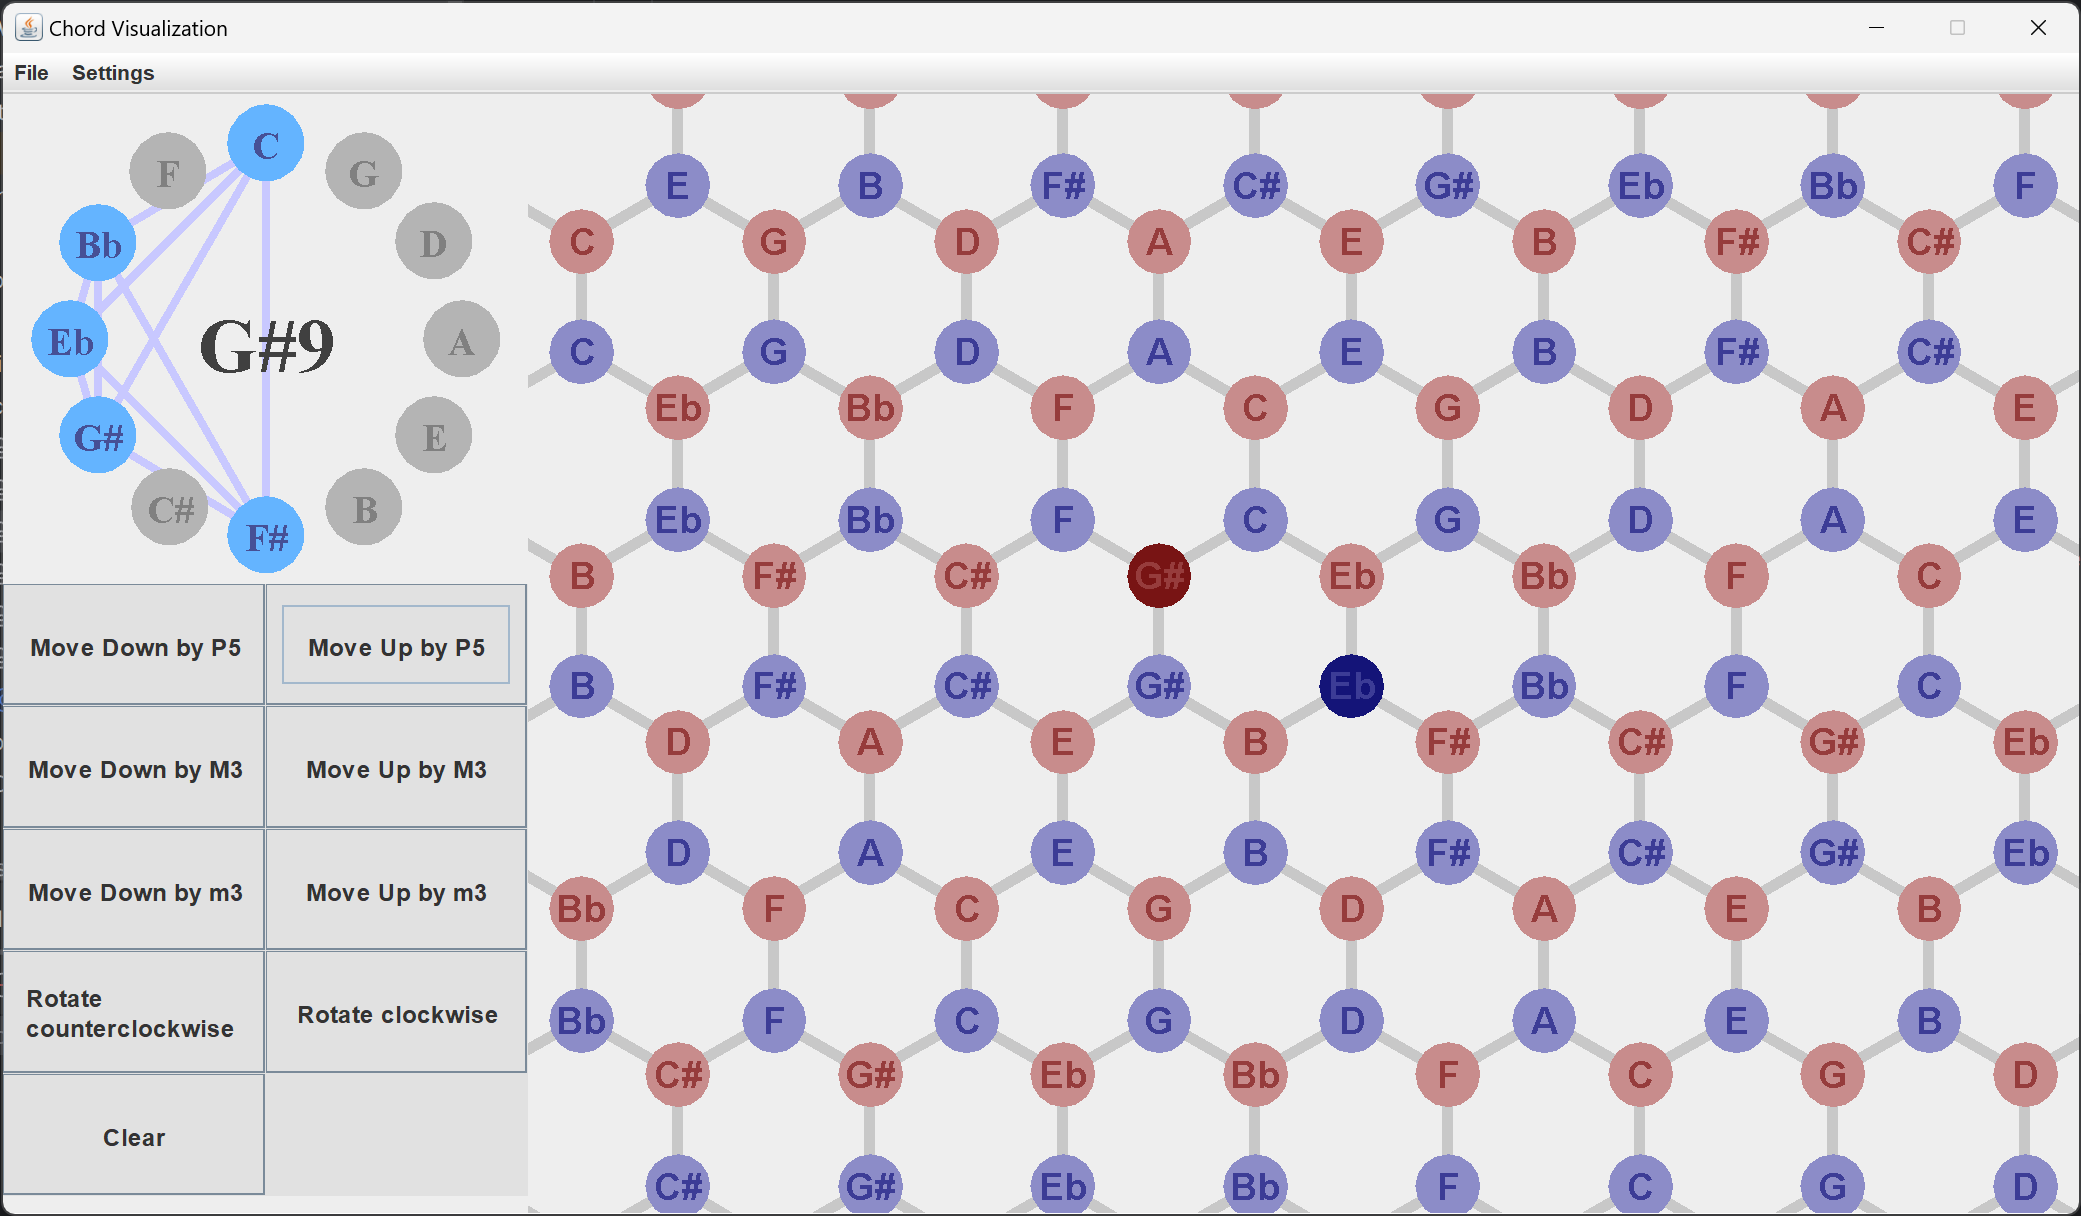
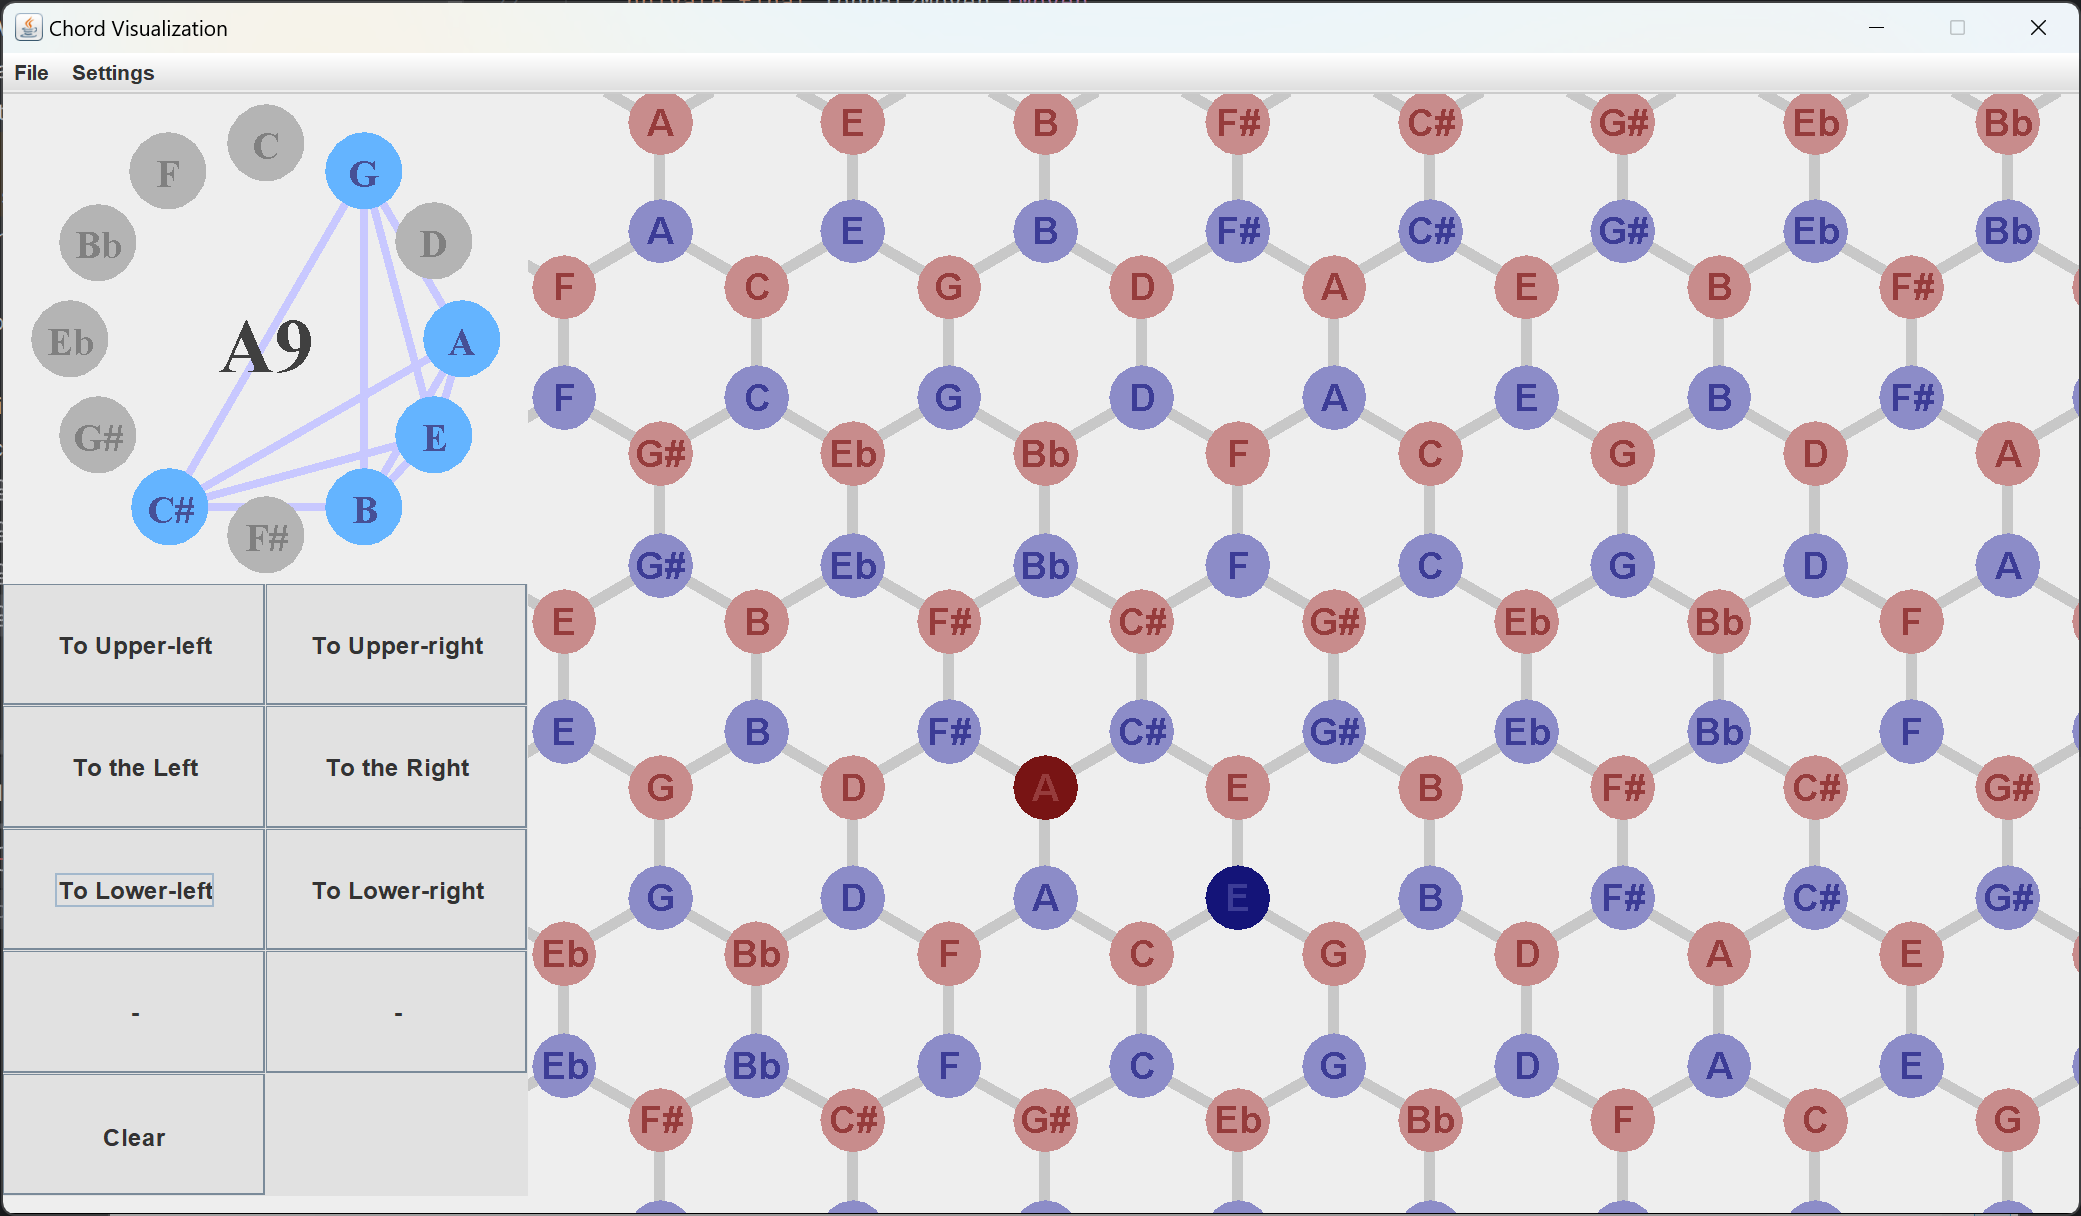
Rewrite operations for Dual-Tonnetz
- Chords now move along edges on the Dual-Tonnetz

diff --git a/src/cdvis/menu/SwitchNetFrame.java b/src/cdvis/menu/SwitchNetFrame.java
@@ -1,6 +1,7 @@
 package cdvis.menu;
 
 import cdvis.app.AppPanel;
+import cdvis.app.ControlPanel;
 import cdvis.component.ChordLabel;
 import cdvis.component.DualTonnetz;
 import cdvis.component.MusicalNet;
@@ -16,15 +17,19 @@ import java.awt.*;
 
 public class SwitchNetFrame extends JFrame {
     private final AppPanel aPanel;
+    private final ControlPanel cPanel;
     private final ControlListener cListener;
     private final TonnetzMover tMover;
     private final TonnetzController tController;
     private final NotePlayer player;
     private final ChordLabel cLabel;
+
     JComboBox<String> comboBox;
 
-    public SwitchNetFrame(AppPanel a, ControlListener cl , TonnetzMover t, TonnetzController tc, NotePlayer p, ChordLabel clb) {
+    public SwitchNetFrame(AppPanel a, ControlPanel c, ControlListener cl,
+                          TonnetzMover t, TonnetzController tc, NotePlayer p, ChordLabel clb) {
         aPanel = a;
+        cPanel = c;
         cListener = cl;
         tMover = t;
         tController = tc;
@@ -42,7 +47,6 @@ public class SwitchNetFrame extends JFrame {
 
         String[] options = {"Tonnetz", "Dual-Tonnetz"};
         comboBox = new JComboBox<>(options);
-
         add(comboBox);
         addButtons();
         setVisible(true);
@@ -54,7 +58,8 @@ public class SwitchNetFrame extends JFrame {
         confirmButton.setContentAreaFilled(false);
         confirmButton.addActionListener(e -> {
             MusicalNet net;
-            switch (comboBox.getSelectedIndex()) {
+            int currentNet = comboBox.getSelectedIndex();
+            switch (currentNet) {
                 case 0:
                     net = new Tonnetz();
                     break;
@@ -64,6 +69,7 @@ public class SwitchNetFrame extends JFrame {
                 default: return;
             }
             aPanel.changeMusicalNet(net);
+            cPanel.changeMusicalNet(currentNet);
             cListener.changeMusicalNet(net);
             tMover.changeMusicalNet(net);
             tController.changeMusicalNet(net);
@@ -71,6 +77,7 @@ public class SwitchNetFrame extends JFrame {
             cLabel.changeMusicalNet(net);
 
             aPanel.repaint();
+            cLabel.repaint();
             player.setNotes();
 
             this.dispose();

diff --git a/src/cdvis/app/ControlPanel.java b/src/cdvis/app/ControlPanel.java
@@ -18,11 +18,11 @@ public class ControlPanel extends JPanel{
 		this.setLayout(new GridLayout(5,2));
 		
 		buttons = new JButton[9];
-		buttons[0] = addButton("Move Down by P5", "-7");
-		buttons[1] = addButton("Move Up by P5", "7");
-		buttons[2] = addButton("Move Down by M3", "-4");
-		buttons[3] = addButton("Move Up by M3", "4");
-		buttons[4] = addButton("Move Down by m3", "-3");
+		buttons[0] = addButton("Move Down by m3", "-3");
+		buttons[1] = addButton("Move Up by M3", "4");
+		buttons[2] = addButton("Move Down by P5", "-7");
+		buttons[3] = addButton("Move Up by P5", "7");
+		buttons[4] = addButton("Move Down by M3", "-4");
 		buttons[5] = addButton("Move Up by m3", "3");
 		buttons[6] = addButton("Rotate counterclockwise", "1");
 		buttons[7] = addButton("Rotate clockwise", "-1");
@@ -37,6 +37,31 @@ public class ControlPanel extends JPanel{
 		b.setContentAreaFilled(false);
 		this.add(b);
 		return b;
+	}
+
+	private void changeButtonDescription(String[] description) {
+		for (int i = 0; i <= 7; i++) {
+			buttons[i].setText(description[i]);
+		}
+	}
+
+	public void changeMusicalNet(int netIndex) {
+		switch (netIndex) {
+			case 0:
+				String[] descrip0 = {
+						"Move Down by P5", "Move Up by P5", "Move Down by M3", "Move Up by M3",
+						"Move Down by m3", "Move Up by m3", "Rotate counterclockwise", "Rotate clockwise"
+				};
+				changeButtonDescription(descrip0);
+				return;
+			case 1:
+				String[] descrip1 = {
+						"To Upper-left" , "To Upper-right", "To the Left", "To the Right",
+						"To Lower-left", "To Lower-right", "-", "-"
+				};
+				changeButtonDescription(descrip1);
+		}
+
 	}
 	
 	public JButton[] getButtons() {

diff --git a/src/cdvis/menu/SettingsMenu.java b/src/cdvis/menu/SettingsMenu.java
@@ -1,6 +1,7 @@
 package cdvis.menu;
 
 import cdvis.app.AppPanel;
+import cdvis.app.ControlPanel;
 import cdvis.component.ChordLabel;
 import cdvis.listener.ControlListener;
 import cdvis.listener.TonnetzController;
@@ -11,15 +12,18 @@ import javax.swing.*;
 
 public class SettingsMenu extends JMenu {
     private final AppPanel aPanel;
+    private final ControlPanel cPanel;
     private final ControlListener cListener;
     private final TonnetzMover tMover;
     private final TonnetzController tController;
     private final NotePlayer player;
     private final ChordLabel cLabel;
 
-    public SettingsMenu(AppPanel a, ControlListener cl, TonnetzMover t, TonnetzController tc, NotePlayer p, ChordLabel clb) {
+    public SettingsMenu(AppPanel a, ControlPanel c, ControlListener cl,
+                        TonnetzMover t, TonnetzController tc, NotePlayer p, ChordLabel clb) {
         super("Settings");
         aPanel = a;
+        cPanel = c;
         cListener = cl;
         tMover = t;
         tController = tc;
@@ -31,7 +35,7 @@ public class SettingsMenu extends JMenu {
         add(instrumentMenuItem);
 
         JMenuItem netMenuItem = new JMenuItem("Change net");
-        netMenuItem.addActionListener(e -> new SwitchNetFrame(aPanel,cListener,tMover,tController,player,cLabel));
+        netMenuItem.addActionListener(e -> new SwitchNetFrame(aPanel,cPanel,cListener,tMover,tController,player,cLabel));
         add(netMenuItem);
     }
 

diff --git a/src/cdvis/component/DualTonnetz.java b/src/cdvis/component/DualTonnetz.java
@@ -158,11 +158,33 @@ public class DualTonnetz extends Graph implements MusicalNet{
 		return false;
     }
 
-    public void moveNotes(int halfSteps) {
+    public void moveNotes(int command) {
     	LinkedList<Integer> newKey = new LinkedList<>();
-    	for (int i : pressedChord) {
-    		newKey.add((i%chordRange + chordRange + halfSteps)%chordRange + chordRange * (i/chordRange));
-    	}
+		int sign = (command > 1) ? 1:-1;
+		switch (Math.abs(command)) {
+			case 3:
+				for (int i : pressedChord) {
+					if (sign*i < sign*chordRange) newKey.add(i+chordRange*sign);
+					else newKey.add(i+command-chordRange*sign);
+				}
+				break;
+			case 4:
+				for (int i : pressedChord) {
+					if (sign*i < sign*chordRange) newKey.add(i+command+chordRange*sign);
+					else newKey.add(i-chordRange*sign);
+				}
+				break;
+			case 7:
+				for (int i : pressedChord) {
+					if (i < chordRange && sign > 0) newKey.add(i+4+chordRange);
+					if (i < chordRange && sign < 0) newKey.add(i-3+chordRange);
+					if (i > chordRange && sign > 0) newKey.add(i+3-chordRange);
+					if (i > chordRange && sign < 0) newKey.add(i-4-chordRange);
+				}
+				break;
+			default: break;
+		}
+
     	pressedChord.clear();
 		pressedChord.addAll(newKey);
 		updatePressedKey();

diff --git a/src/cdvis/Main.java b/src/cdvis/Main.java
@@ -52,7 +52,8 @@ public class Main {
 	}
 
 	public void addMenu() {
-		SettingsMenu settingsMenu = new SettingsMenu(aPanel, CListener, TMover, TController, player, cLabel);
+		SettingsMenu settingsMenu = new SettingsMenu(aPanel, cPanel, CListener, TMover,
+				TController, player, cLabel);
 
 		MenuBar menuBar = new MenuBar();
 		menuBar.add(settingsMenu);

diff --git a/README.md b/README.md
@@ -14,15 +14,17 @@ There are three forms of visualization in this program.
 
 ![App](examples/App.png)
 
-- By changing the setting you can also check out the dual graph of the Tonnetz. Here red nodes represents major chords, and blue ones represents minor chord. Two chords are connected when they share 2 common notes.
+- By changing the settings you can also view the dual graph of the Tonnetz, where red and blue nodes represents major and minor triads respectively. Two triads are connected when they share 2 common notes.
 
 ![DualNet](examples/DualNet.png)
+
+
 
 ## Usage
 
 Left click on notes to press. Use the control panel to apply operations to the pressed notes. These operations are:
 
-- Move by P5, M3, m3 interval. All notes will go up or down by certain interval after this operation.
+- Moving along edges. On Tonnetz this means parallel movement by P5, M3 or m3 interval. On Dual-Tonnetz things are much more interesting since chord structures change as they travel. 
 - Rotation. All notes will rotate by 60 degree according to rotation center after this operation. Right click to set rotation center. Since Tonnetz is topologically a torus, this operation is only well-defined locally. It can behave in unexpected way when your note group is too large or when it touches right or left boundary. This operation is currently not available for dual-Tonnetz.
 
 You can also change instrument in the settings menu. All instruments in general midi are supported.
